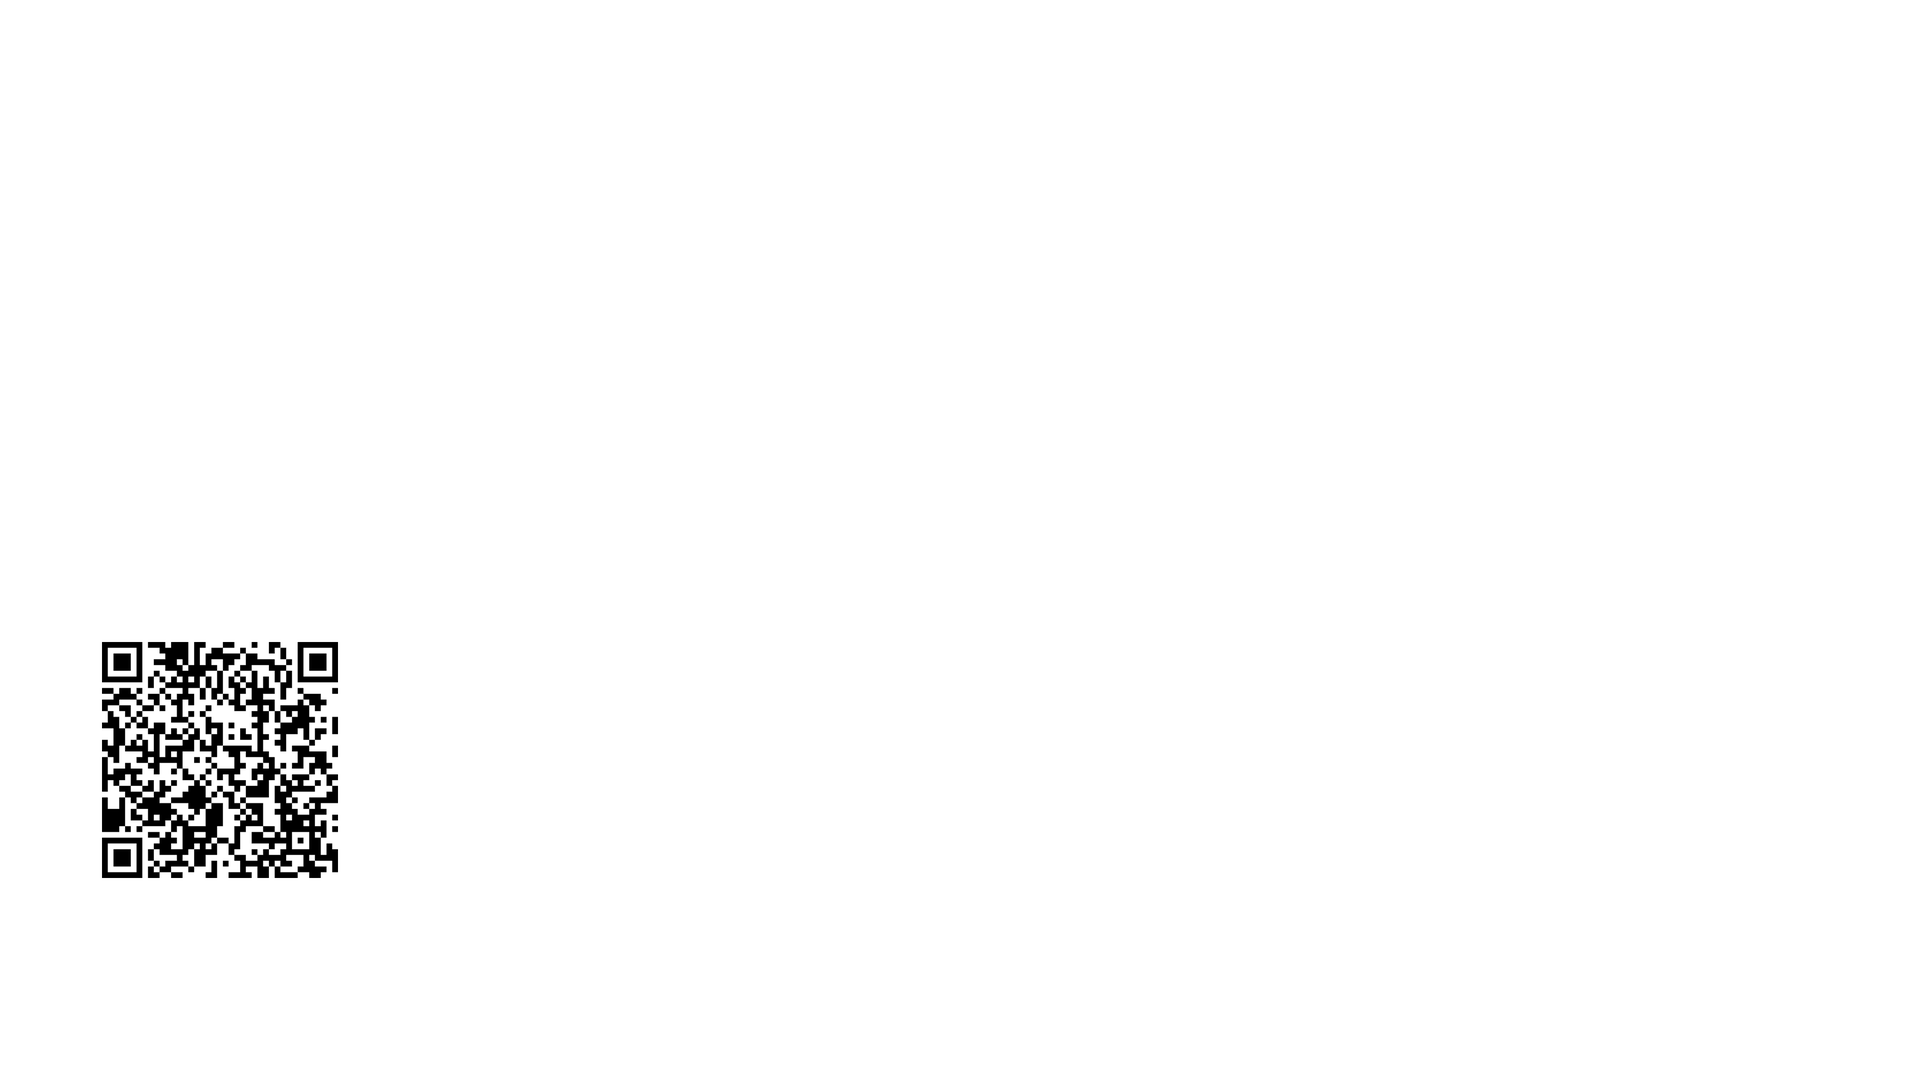
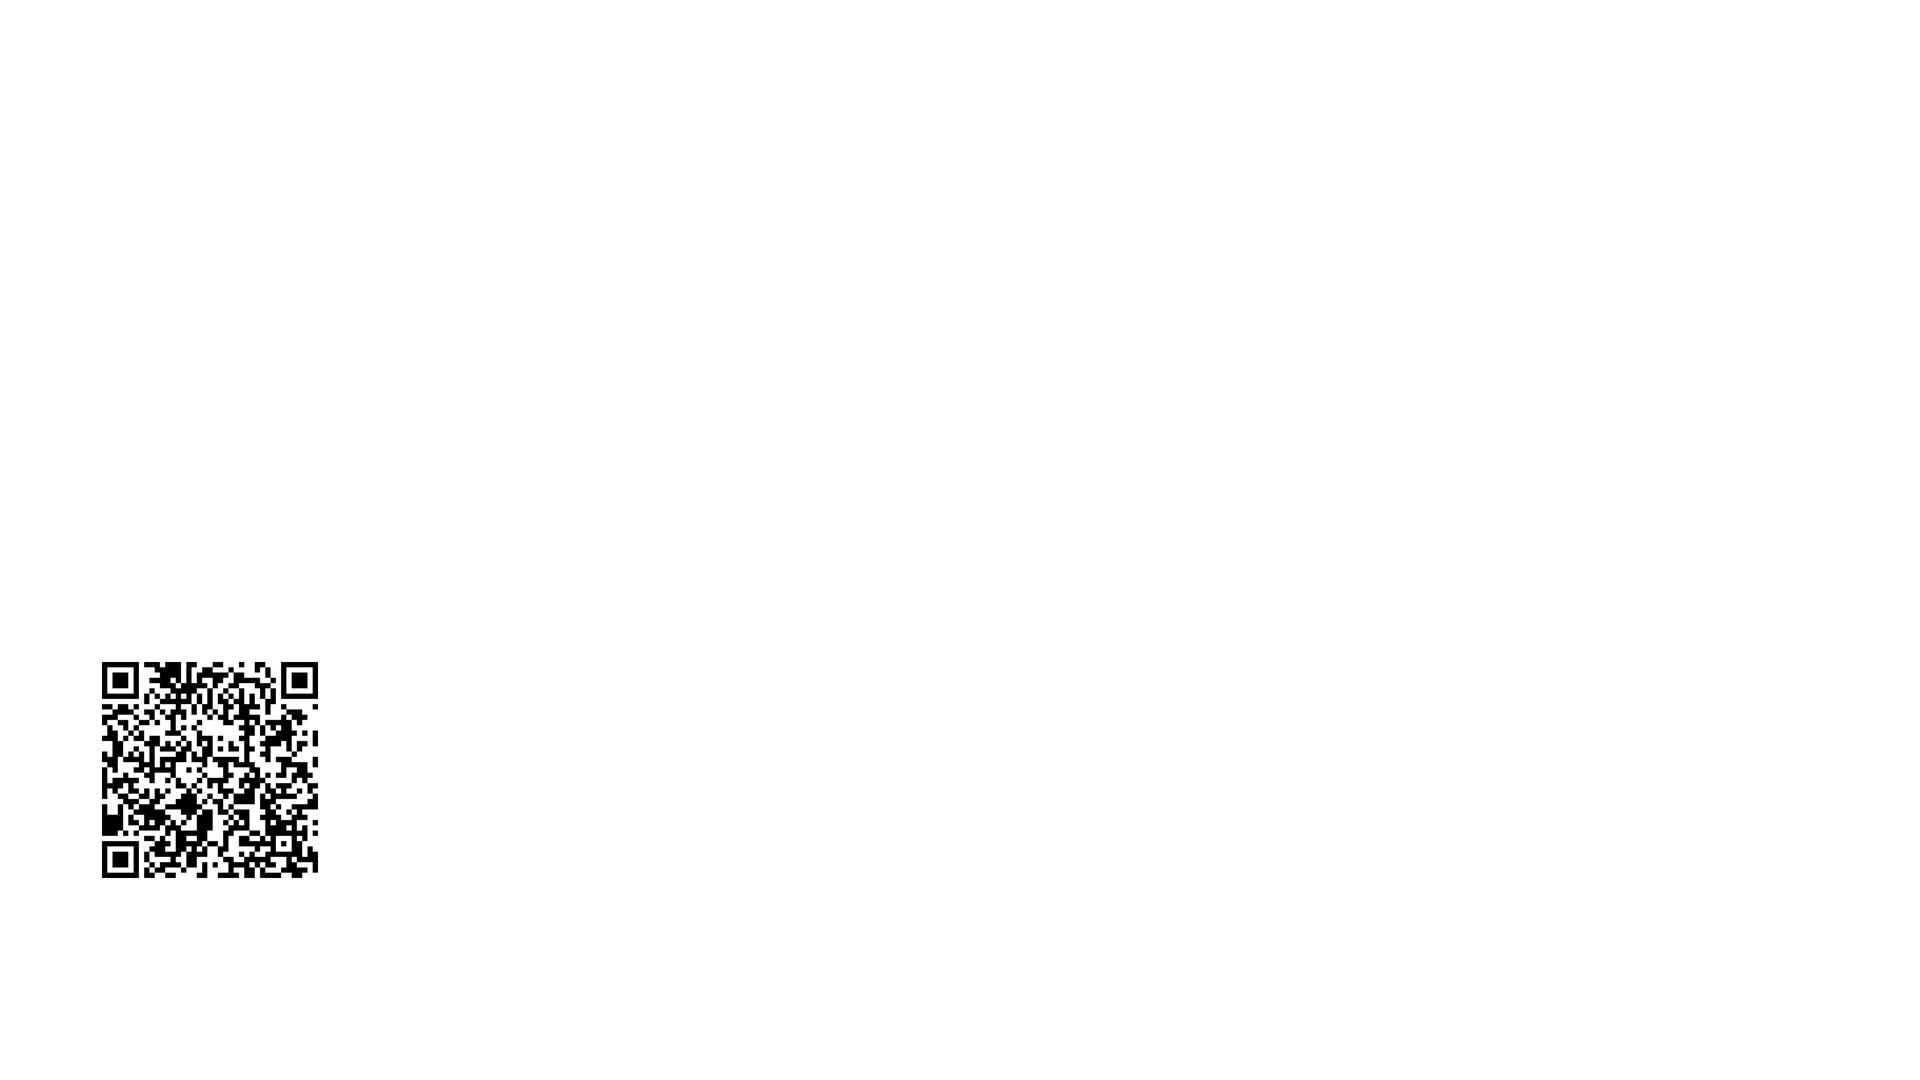
Replace slide three backdrop content image

Changed region(s): [[0.0312, 0.5806, 0.1875, 0.825]]

diff --git a/index.html b/index.html
@@ -56,7 +56,7 @@
       </div>
       <img class="content active" src="assets/01.png?v=6c1233ed9473" alt="第 1 页：即梦 × 小云雀 设计工作流" srcset="assets/01.png?v=6c1233ed9473 1920w, assets/2x/01.png?v=e97b9673e35f 3840w, assets/original/01.png?v=066ba59f4ef8 5760w" sizes="(max-aspect-ratio: 16/9) 100vw, 177.777778vh" draggable="false">
       <img class="content" src="assets/02.png?v=481d757fac8a" alt="第 2 页：设计 组件 实验" srcset="assets/02.png?v=481d757fac8a 1920w, assets/2x/02.png?v=086b3b3cf24d 3840w, assets/original/02.png?v=0d82bb4ccf5d 5760w" sizes="(max-aspect-ratio: 16/9) 100vw, 177.777778vh" draggable="false">
-      <img class="content" src="assets/03.png?v=f076bced113f" alt="第 3 页：即梦 设计 2.0" srcset="assets/03.png?v=f076bced113f 1920w, assets/2x/03.png?v=a6ad8cdb126e 3840w, assets/original/03.png?v=397032414b36 5760w" sizes="(max-aspect-ratio: 16/9) 100vw, 177.777778vh" draggable="false">
+      <img class="content" src="assets/03.png?v=4f82d59782c9" alt="第 3 页：即梦 设计 2.0" srcset="assets/03.png?v=4f82d59782c9 1920w, assets/2x/03.png?v=64d05dfe4cd0 3840w, assets/original/03.png?v=87aa40d2cddf 5760w" sizes="(max-aspect-ratio: 16/9) 100vw, 177.777778vh" draggable="false">
       <img class="content" src="assets/04.png?v=b7a2e0f85af4" alt="第 4 页：做 设计" srcset="assets/04.png?v=b7a2e0f85af4 1920w, assets/2x/04.png?v=00378c1fe6de 3840w, assets/original/04.png?v=890d83e35e72 5760w" sizes="(max-aspect-ratio: 16/9) 100vw, 177.777778vh" draggable="false">
       <img class="content" src="assets/05.png?v=5137d4a6470b" alt="第 5 页：搭 组件" srcset="assets/05.png?v=5137d4a6470b 1920w, assets/2x/05.png?v=c02ad30db2ce 3840w, assets/original/05.png?v=69e19a5c8c17 5760w" sizes="(max-aspect-ratio: 16/9) 100vw, 177.777778vh" draggable="false">
       <img class="content" src="assets/06.png?v=5137d4a6470b" alt="第 6 页：搭 组件" srcset="assets/06.png?v=5137d4a6470b 1920w, assets/2x/06.png?v=c02ad30db2ce 3840w, assets/original/06.png?v=69e19a5c8c17 5760w" sizes="(max-aspect-ratio: 16/9) 100vw, 177.777778vh" draggable="false">
